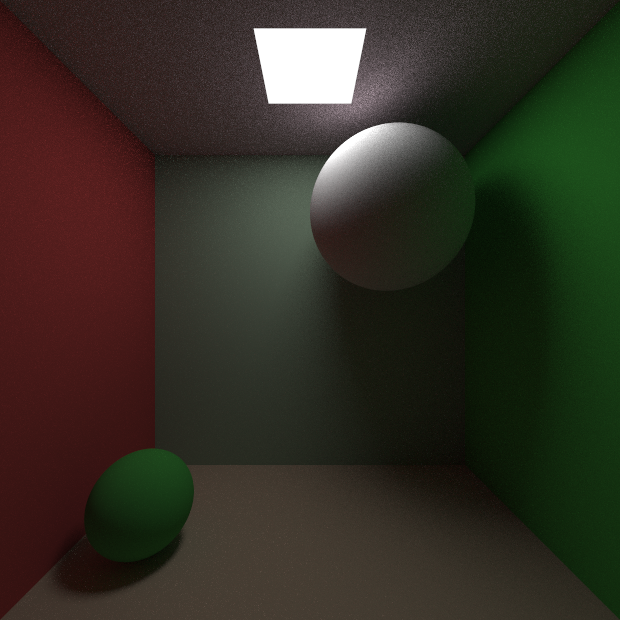
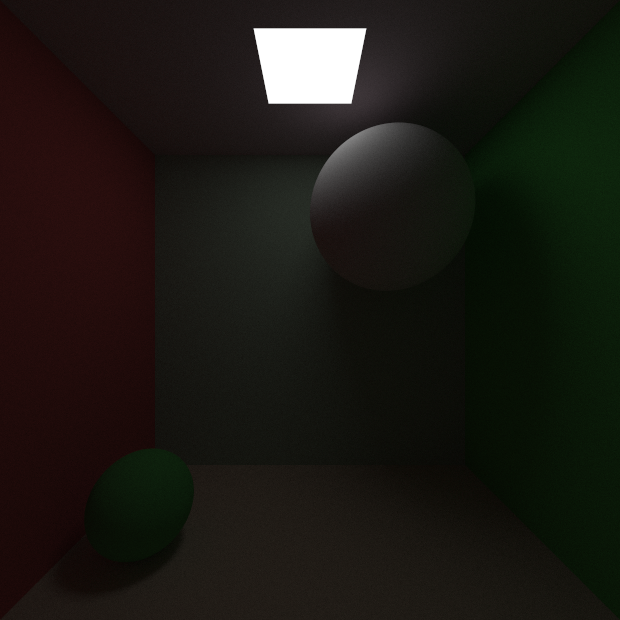
Math.pi vergeten

diff --git a/myraytracer/src/world/WorldBuilder.java b/myraytracer/src/world/WorldBuilder.java
@@ -64,17 +64,7 @@ public class WorldBuilder {
 			world.shapes.add(
 					new Instance(new Sphere(bigSphereReflection), true, bigSphere2Transformation, bigSphereReflection));
 
-			// create light
-			Emissive emissive = new Emissive();
-			emissive.setPower(1.0);
-			emissive.setCE(1, 1, 1);
-
-			Rectangle lightRectangle = new Rectangle(new Point3d(-0.2, 0.999, -1.5), new Vector3d(0, 0, 0.4),
-					new Vector3d(0.4, 0, 0), new Vector3d(0, -1, 0), emissive);
-			lightRectangle.setShadows(true);
-			world.shapes.add(lightRectangle);
-
-			world.lights.add(new AreaLight(lightRectangle));
+			createCornellBoxLight(1, world);
 
 			world.tracer = new HybridPathTracing(world);
 			world.camera = new PerspectiveCamera(width, height, new Point3d(1, 0, 0), new Point3d(-0.4, -0.5, -1.6),
@@ -96,17 +86,7 @@ public class WorldBuilder {
 			world.shapes.add(
 					new Instance(new Sphere(bigSphereReflection), true, bigSphere2Transformation, bigSphereReflection));
 
-			// create light
-			Emissive emissive = new Emissive();
-			emissive.setPower(1.0);
-			emissive.setCE(1, 1, 1);
-
-			Rectangle lightRectangle = new Rectangle(new Point3d(-0.2, 0.999, -1.5), new Vector3d(0, 0, 0.4),
-					new Vector3d(0.4, 0, 0), new Vector3d(0, -1, 0), emissive);
-			lightRectangle.setShadows(true);
-			world.shapes.add(lightRectangle);
-
-			world.lights.add(new AreaLight(lightRectangle));
+			createCornellBoxLight(1, world);
 
 			world.tracer = new PathTracer(world);
 			world.camera = new PerspectiveCamera(width, height, new Point3d(1, 0, 0), new Point3d(-0.4, -0.5, -1.6),
@@ -130,17 +110,7 @@ public class WorldBuilder {
 			bigSphereColor.setKD(0.7);
 			world.shapes.add(new Instance(new Sphere(bigSphereColor), true, bigSphereTransformation, bigSphereColor));
 
-			// create light
-			Emissive emissive = new Emissive();
-			emissive.setPower(1.0);
-			emissive.setCE(1, 1, 1);
-
-			Rectangle lightRectangle = new Rectangle(new Point3d(-0.2, 0.999, -1.5), new Vector3d(0, 0, 0.4),
-					new Vector3d(0.4, 0, 0), new Vector3d(0, -1, 0), emissive);
-			lightRectangle.setShadows(true);
-			world.shapes.add(lightRectangle);
-
-			world.lights.add(new AreaLight(lightRectangle));
+			createCornellBoxLight(1, world);
 
 			world.tracer = new HybridPathTracing(world);
 			world.camera = new PerspectiveCamera(width, height, new Point3d(0, 0, 0), new Point3d(0, 0, -1),
@@ -158,23 +128,16 @@ public class WorldBuilder {
 
 			Transformation bigSphereTransformation = Transformation.translate(0.4, 0.5, -1.6)
 					.append(Transformation.scale(0.4, 0.4, 0.4));
-			
-//			SVReflective bigSphereReflection = new SVReflective(new ConstantColor(new RGBColor(1, 1, 1)));
-//			bigSphereReflection.setKR(1);
+
+			// SVReflective bigSphereReflection = new SVReflective(new
+			// ConstantColor(new RGBColor(1, 1, 1)));
+			// bigSphereReflection.setKR(1);
 			SVMatte bigSphereColor = new SVMatte(new ConstantColor(new RGBColor(1, 1, 1)));
 			bigSphereColor.setKA(0.0);
 			bigSphereColor.setKD(0.7);
 			world.shapes.add(new Instance(new Sphere(bigSphereColor), true, bigSphereTransformation, bigSphereColor));
 
-			// create light
-			Emissive emissive = new Emissive();
-			emissive.setPower(1.0);
-			emissive.setCE(1, 1, 1);
-
-			Rectangle lightRectangle = new Rectangle(new Point3d(-0.2, 0.999, -1.5), new Vector3d(0, 0, 0.4),
-					new Vector3d(0.4, 0, 0), new Vector3d(0, -1, 0), emissive);
-			lightRectangle.setShadows(true);
-			world.shapes.add(lightRectangle);
+			createCornellBoxLight(1, world);
 
 			world.tracer = new PathTracer(world);
 			world.camera = new PerspectiveCamera(width, height, new Point3d(0, 0, 0), new Point3d(0, 0, -1),
@@ -197,19 +160,7 @@ public class WorldBuilder {
 			bigSphereColor.setKD(0.7);
 			world.shapes.add(new Instance(new Sphere(bigSphereColor), true, bigSphereTransformation, bigSphereColor));
 
-			// create light
-			Emissive emissive = new Emissive();
-			emissive.setPower(1.0);
-			emissive.setCE(1, 1, 1);
-
-			Rectangle lightRectangle = new Rectangle(new Point3d(-0.2, 0.999, -1.5), new Vector3d(0, 0, 0.4),
-					new Vector3d(0.4, 0, 0), new Vector3d(0, -1, 0), emissive);
-			lightRectangle.setShadows(true);
-			world.shapes.add(lightRectangle);
-
-			Light arealight = new AreaLight(lightRectangle);
-			arealight.setShadows(true);
-			world.lights.add(arealight);
+			createCornellBoxLight(1, world);
 
 			world.tracer = new AreaLighting(world);
 			world.camera = new PerspectiveCamera(width, height, new Point3d(0, 0, 0), new Point3d(0, 0, -1),
@@ -317,12 +268,14 @@ public class WorldBuilder {
 			// reflective ring
 			SVReflective ringColor = new SVReflective(new ConstantColor(new RGBColor(1, 0.5, 0.3)));
 			ringColor.setKR(1);
-//			Transformation ringTransformation = Transformation.translate(0, -0.95, -1.3)
-//					.append(Transformation.scale(0.2, 0.2, 0.2));
+			// Transformation ringTransformation = Transformation.translate(0,
+			// -0.95, -1.3)
+			// .append(Transformation.scale(0.2, 0.2, 0.2));
 			Transformation ringTransformation = Transformation.translate(-0.3, -0.8, -1.3)
 					.append(Transformation.scale(0.2, 0.2, 0.2));
 
-//			world.shapes.add(new Instance(new Sphere(ringColor), true, ringTransformation, ringColor));
+			// world.shapes.add(new Instance(new Sphere(ringColor), true,
+			// ringTransformation, ringColor));
 			BoundingVolume bvh = new BoundingVolume();
 
 			Mesh mesh = OBJFileLoader.loadOBJ("res/models/ring.obj");
@@ -467,6 +420,46 @@ public class WorldBuilder {
 		Rectangle ceiling = new Rectangle(new Point3d(-1, 1, 0), new Vector3d(0, 0, -2), new Vector3d(2, 0, 0),
 				new Vector3d(0, -1, 0), ceilingColor);
 		world.shapes.add(ceiling);
+
+		SVMatte frontWallColor = new SVMatte(new ConstantColor(new RGBColor(0.9, 0.7, 0.8)));
+		frontWallColor.setKA(0.0);
+		frontWallColor.setKD(0.7);
+		Rectangle frontWall = new Rectangle(new Point3d(-1, -1, 0), new Vector3d(0, 2, 0), new Vector3d(2, 0, 0),
+				new Vector3d(0, 0, -1), frontWallColor);
+		world.shapes.add(frontWall);
+	}
+
+	private static void createCornellBoxLight(int num, World world) {
+		if (num == 1) {
+			// create light
+			Emissive emissive = new Emissive();
+			emissive.setPower(1.0);
+			emissive.setCE(1, 1, 1);
+
+			Rectangle lightRectangle = new Rectangle(new Point3d(-0.2, 0.999, -1.5), new Vector3d(0, 0, 0.4),
+					new Vector3d(0.4, 0, 0), new Vector3d(0, -1, 0), emissive);
+			lightRectangle.setShadows(true);
+			world.shapes.add(lightRectangle);
+
+			world.lights.add(new AreaLight(lightRectangle));
+		} else if (num == 2) {
+			// create light
+			Emissive emissive = new Emissive();
+			emissive.setPower(1.0);
+			emissive.setCE(1, 1, 1);
+
+			Rectangle lightRectangle1 = new Rectangle(new Point3d(-0.6, 0.999, -1.5), new Vector3d(0, 0, 0.4),
+					new Vector3d(0.4, 0, 0), new Vector3d(0, -1, 0), emissive);
+			world.shapes.add(lightRectangle1);
+
+			world.lights.add(new AreaLight(lightRectangle1));
+			
+			Rectangle lightRectangle2 = new Rectangle(new Point3d(0.2, 0.999, -1.5), new Vector3d(0, 0, 0.4),
+					new Vector3d(0.4, 0, 0), new Vector3d(0, -1, 0), emissive);
+			world.shapes.add(lightRectangle2);
+
+			world.lights.add(new AreaLight(lightRectangle2));
+		}
 	}
 
 }

diff --git a/myraytracer/src/world/World.java b/myraytracer/src/world/World.java
@@ -44,8 +44,8 @@ public class World {
 
 	public Camera camera;
 	public Tracer tracer;
-	public static final int MAX_BOUNCES = 2;
-	public static final int SAMPLES_PER_PIXEL = 100;
+	public static final int MAX_BOUNCES = 10;
+	public static final int SAMPLES_PER_PIXEL = 3600;
 	public static final int BRANCHING_FACTOR = 1;
 	public static final RGBColor BACKGROUND_COLOR = new RGBColor();
 	public static final int SHOW_BOUNCE = -1;
@@ -80,7 +80,7 @@ public class World {
 		} else
 			panel = null;
 		
-		WorldBuilder.build(WorldBuilder.CORNELL_BOX_HYBRID_PATH_TRACING, width, height, this);
+		WorldBuilder.build(WorldBuilder.CORNELL_BOX_PATH_TRACING, width, height, this);
 	}
 
 	public void renderScene() {

diff --git a/myraytracer/src/brdf/SVLambertian.java b/myraytracer/src/brdf/SVLambertian.java
@@ -18,12 +18,12 @@ public class SVLambertian extends BRDF {
 	
 	@Override
 	public RGBColor f(ShadeRec shadeRec, Vector3d wi, Vector3d wo) {
-		return (cd.getColor(shadeRec).scale(kd));
+		return (cd.getColor(shadeRec).scale(kd / Math.PI));
 	}
 
 	@Override
 	public RGBColor rho(ShadeRec shadeRec, Vector3d wo) {
-		return (cd.getColor(shadeRec).scale(kd));
+		return (cd.getColor(shadeRec).scale(kd / Math.PI));
 	}
 	
 	public RGBColor sampleF(ShadeRec shadeRec, Vector3d wo, Vector3d wi){
